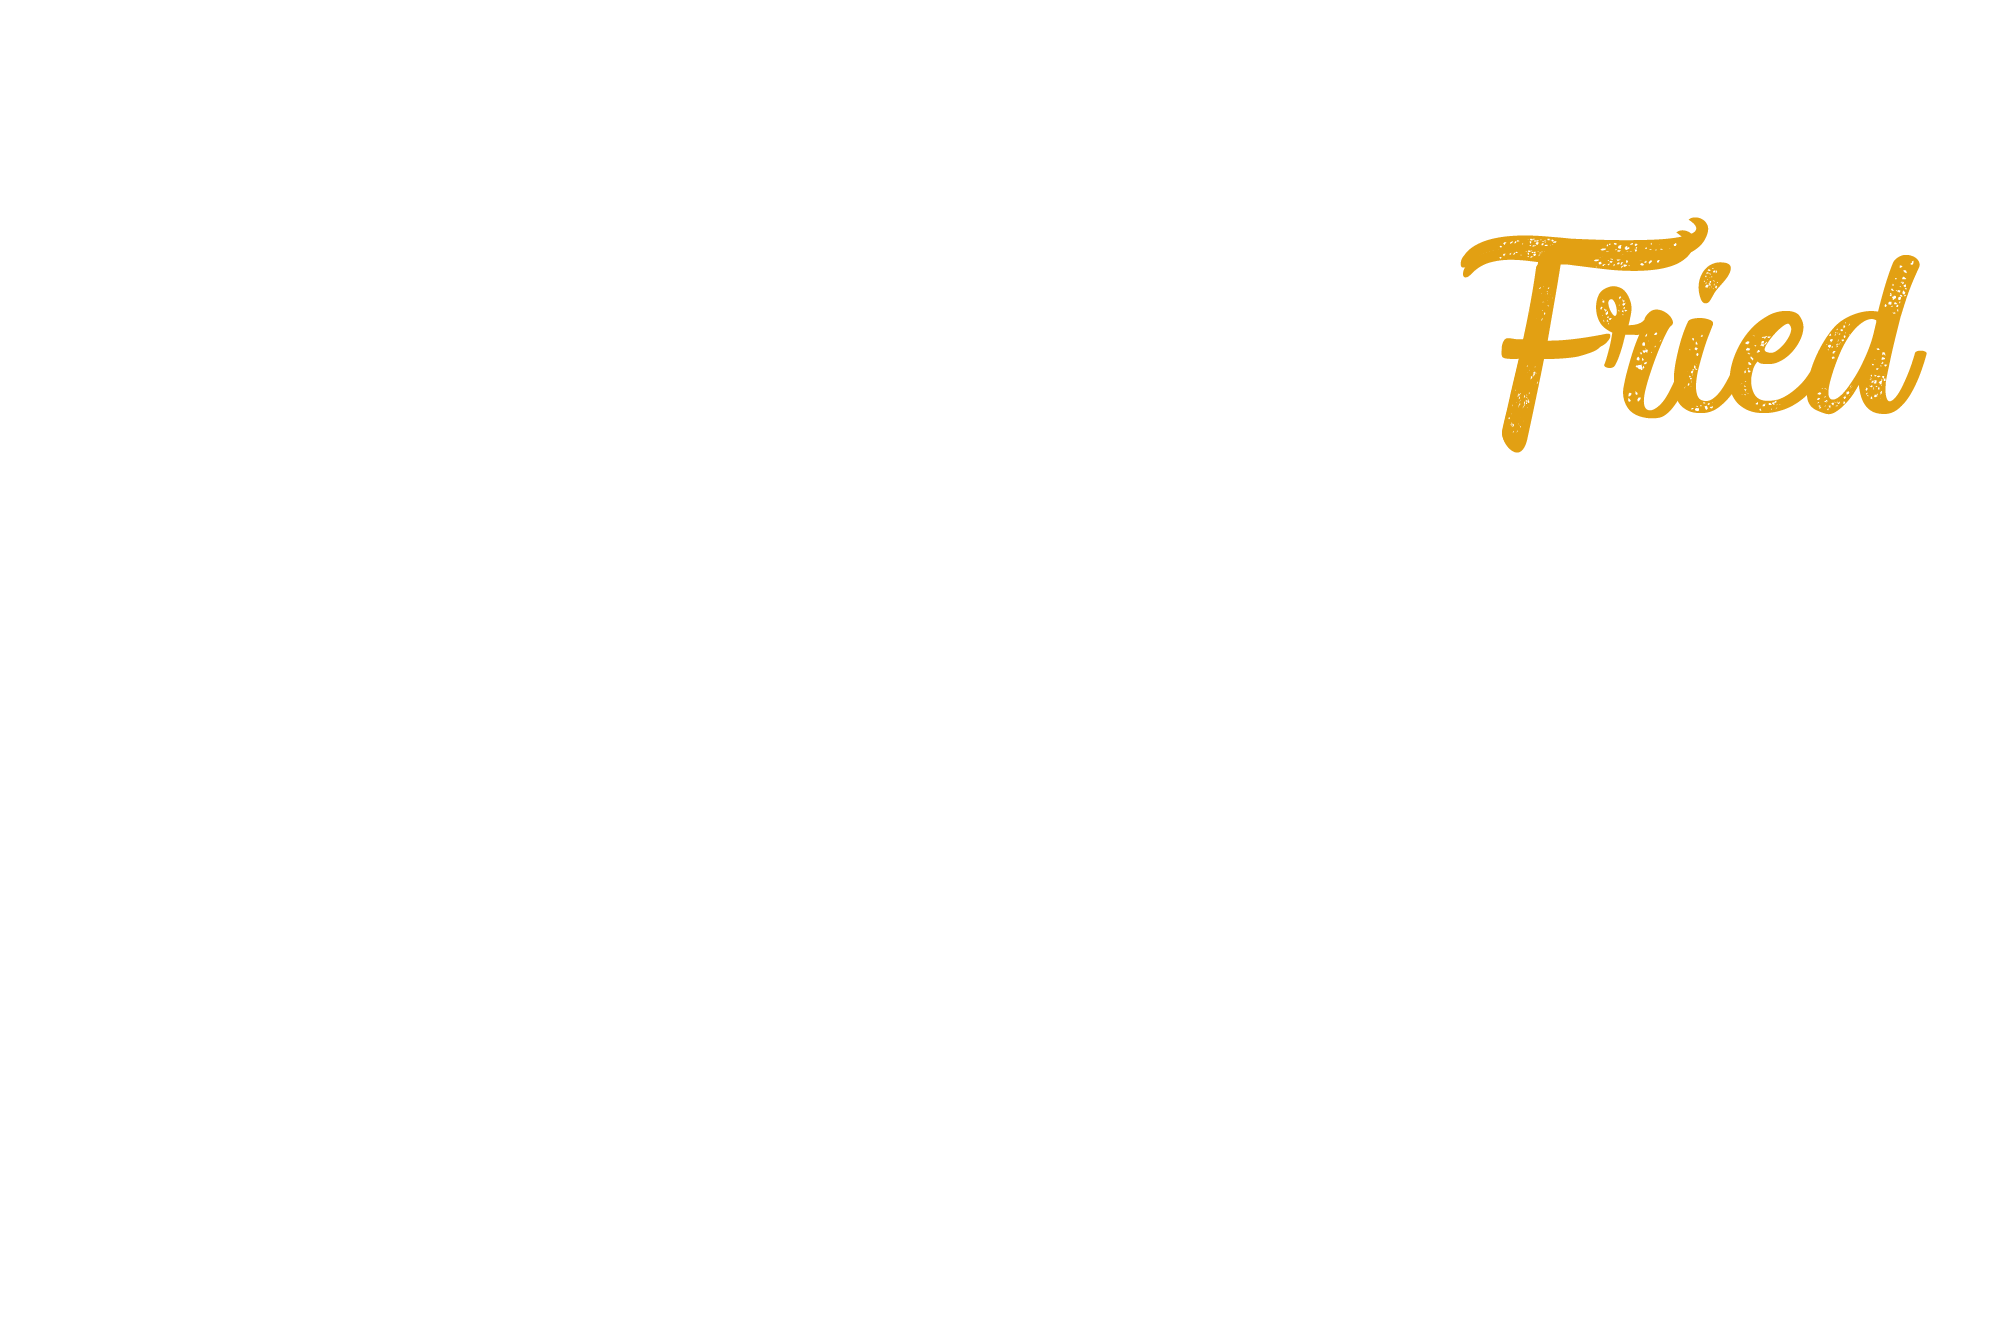
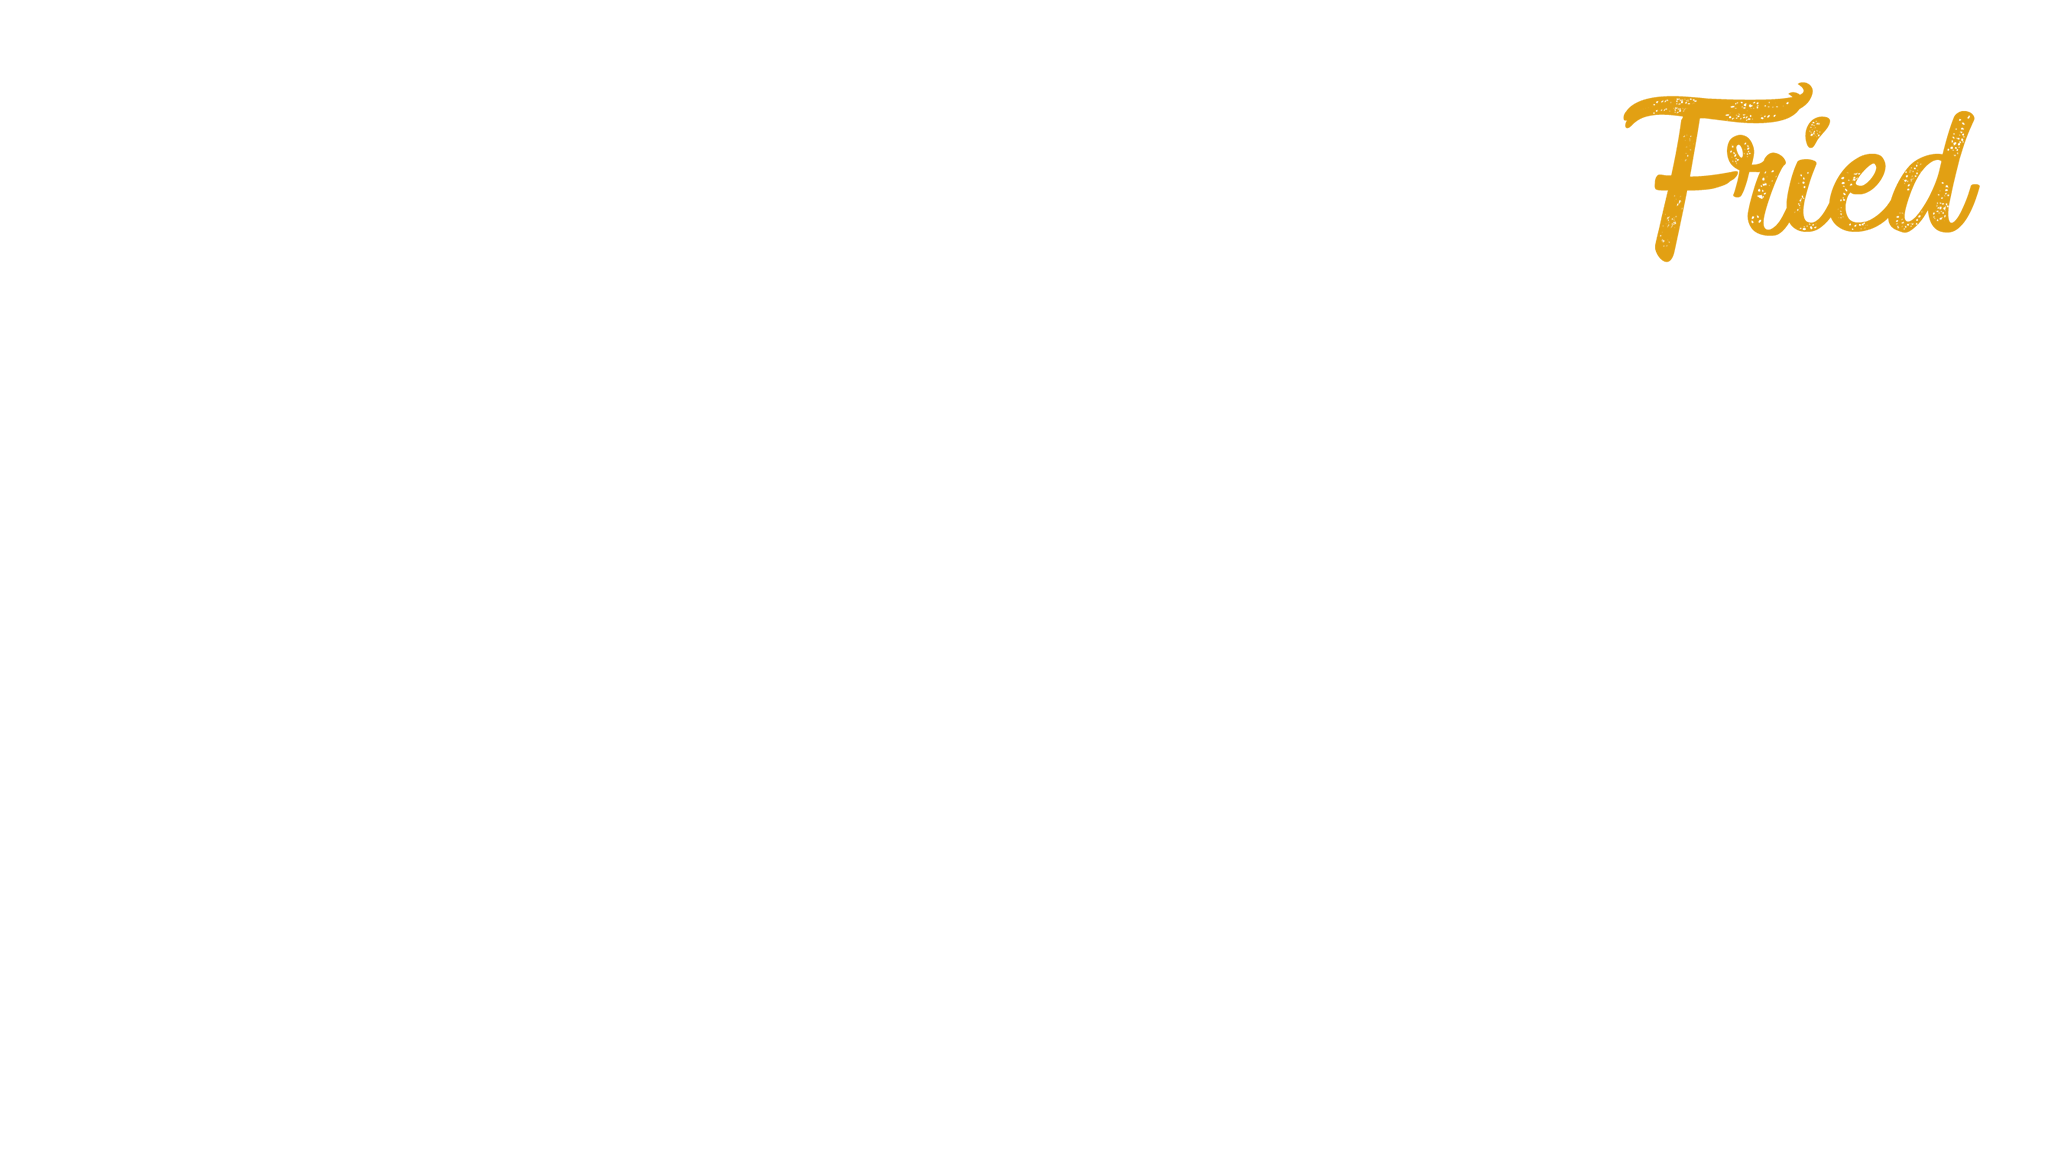
Ajustes Pop Duritos Pop Platos

Changed region(s): [[0.7102, 0.0617, 0.988, 0.3393]]

diff --git a/css/responsive.css b/css/responsive.css
@@ -80,13 +80,13 @@
     }
 
     .d-image-frito > img {
-        width: 65% !important;
+        width: 58% !important;
     }
 
     .d-image-frito .image-pop {
         visibility: visible;
         width: 53% !important;
-        margin-top: -350px !important;
+        margin-top: -315px !important;
         margin-left: 0px;
     }
 
